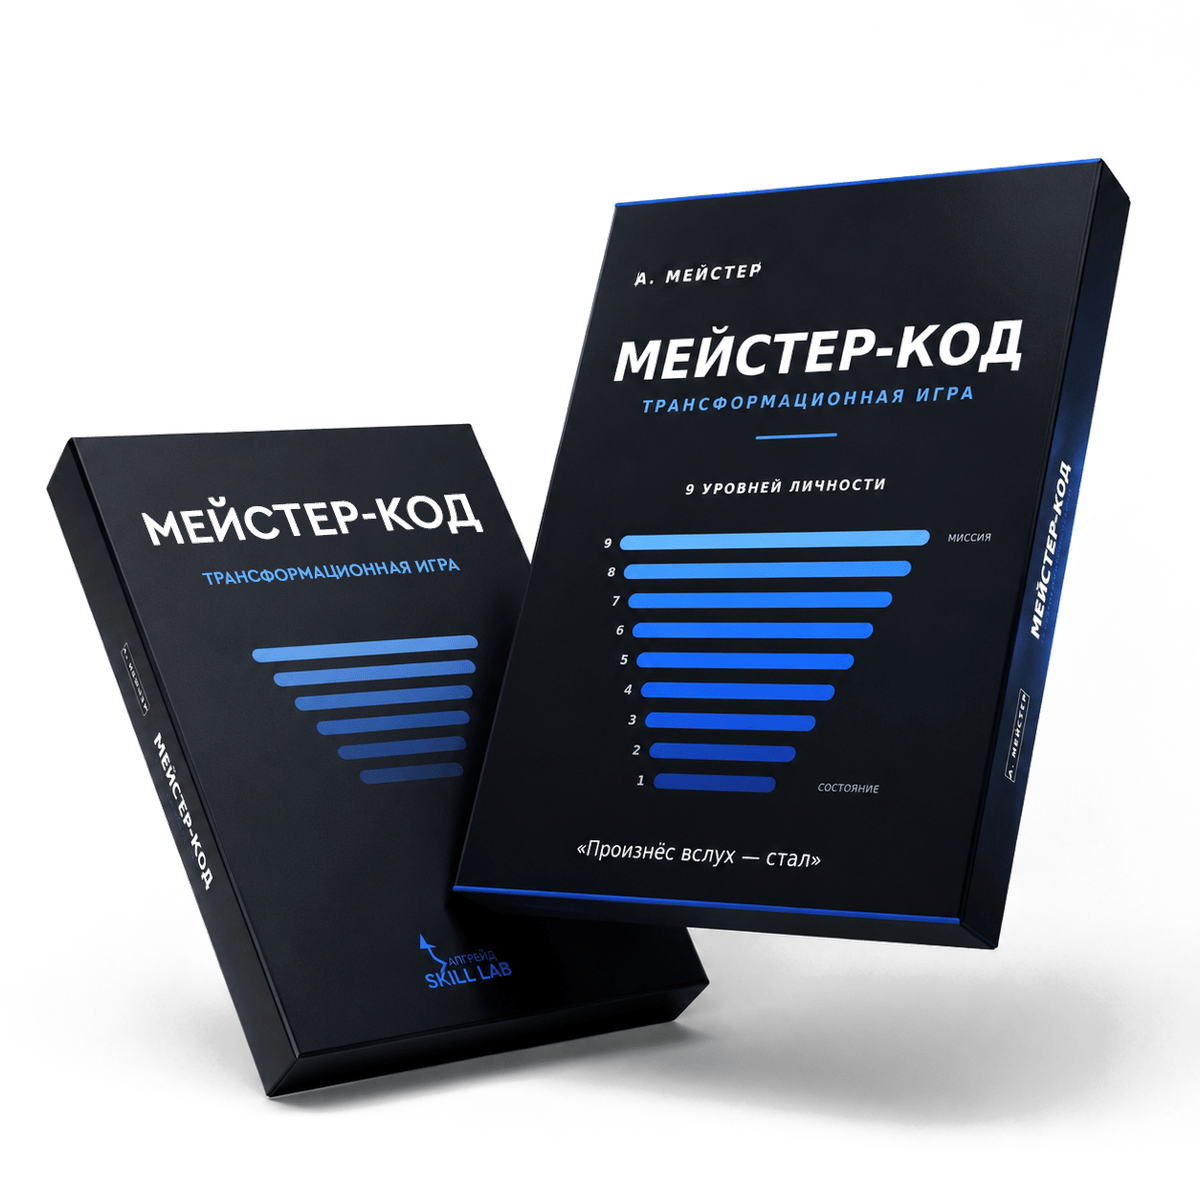
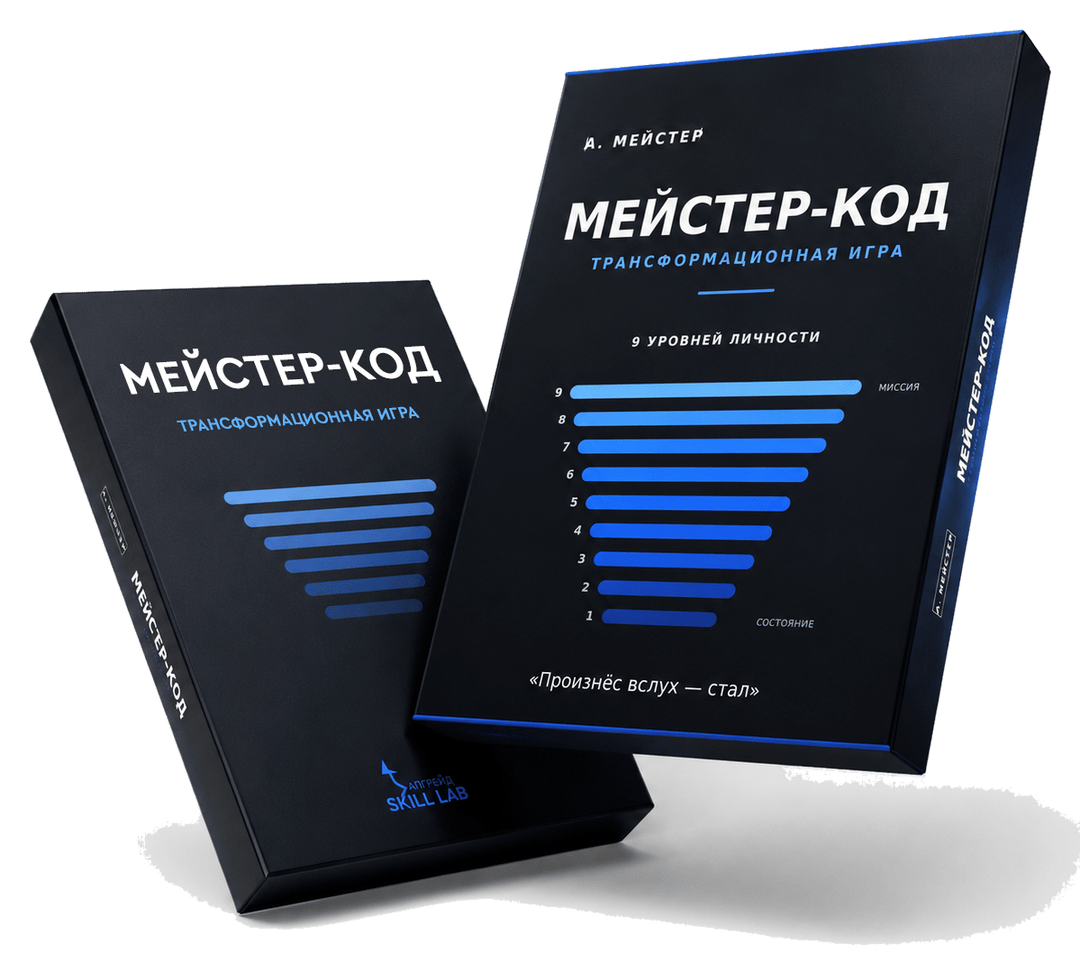
fix(igry): чистая обложка МЕЙСТЕР-КОД (убрал белое пятно) + короче описание
- mejster-kod-igra.png: пересобрал из оригинала. Прошлая версия имела
  непрозрачный белый остаток фона/отражения внизу (на тёмной карточке —
  белёсое пятно у основания коробок). Удалил фон заливкой от краёв,
  отрезал «отражение» (тень добавляет CSS), обрезал вплотную к коробкам —
  теперь они заполняют кадр (1080×953 вместо квадрата с полями), пятна нет.
- ?v=2 к ссылке на картинку: .png кэшируется immutable, без версии новая
  обложка не дошла бы до тех, у кого старая в кэше.
- Описание сокращено до длины остальных карточек.

Changed region(s): [[0.0306, 0.0304, 1.0, 1.0]]

diff --git a/igry/index.html b/igry/index.html
@@ -836,11 +836,11 @@
     <!-- МЕЙСТЕР-КОД -->
     <div class="game-card">
       <div class="game-image">
-        <img src="/mejster-kod-igra.png" alt="МЕЙСТЕР-КОД — трансформационная игра, конструктор личности на 9 уровней" loading="lazy">
+        <img src="/mejster-kod-igra.png?v=2" alt="МЕЙСТЕР-КОД — трансформационная игра, конструктор личности на 9 уровней" loading="lazy">
       </div>
       <div class="game-title">МЕЙСТЕР-КОД</div>
       <div class="game-subtitle"><i class="fas fa-layer-group"></i> Трансформационная · 2 игрока</div>
-      <div class="game-description">Конструктор личности на 9 уровней. Один тренирует навык вытаскивать у человека его сильные слова, другой меняется, произнося их вслух — выигрывают оба. Полный набор (теория, правила, 36 карт-прошивок) — бесплатно в PDF.</div>
+      <div class="game-description">Конструктор личности на 9 уровней. Один вытаскивает сильные слова, другой меняется, произнося их вслух. Полный набор (36 карт) — бесплатно в PDF.</div>
       <div class="game-actions">
         <a href="/blog/mejster-kod-transformacionnaya-igra.html" class="btn" aria-label="Подробнее об игре МЕЙСТЕР-КОД">ПОДРОБНЕЕ</a>
       </div>
